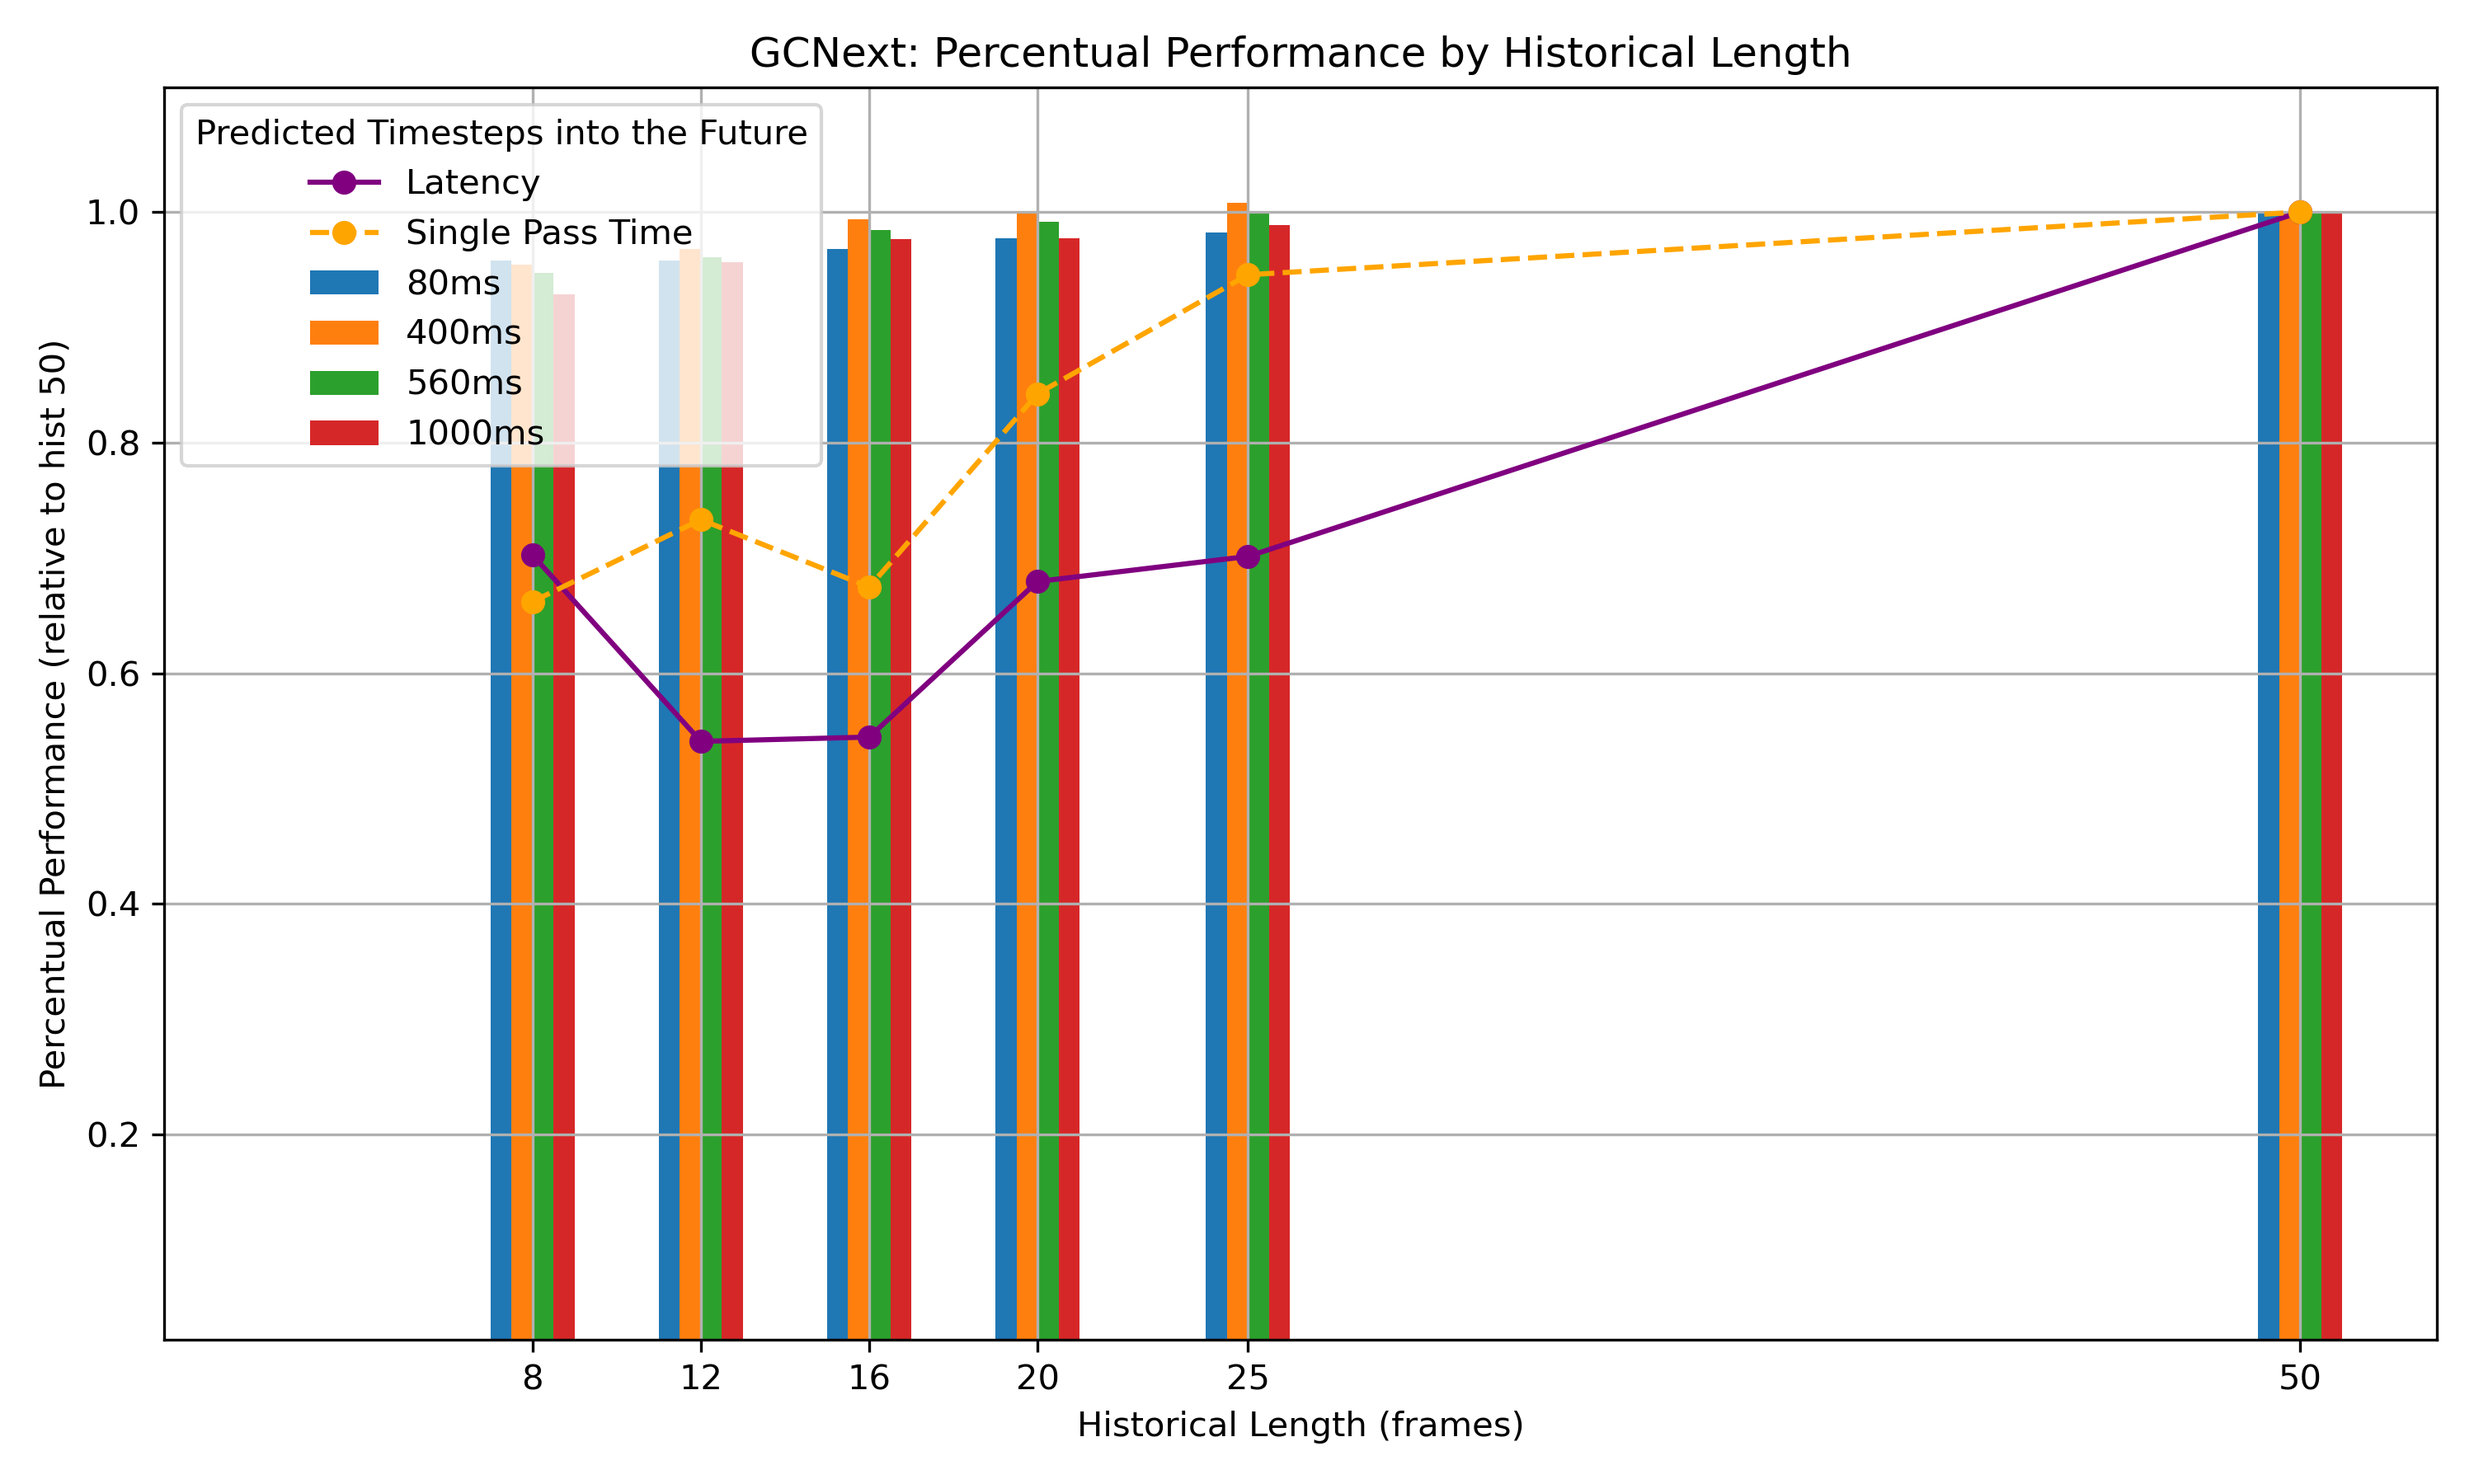
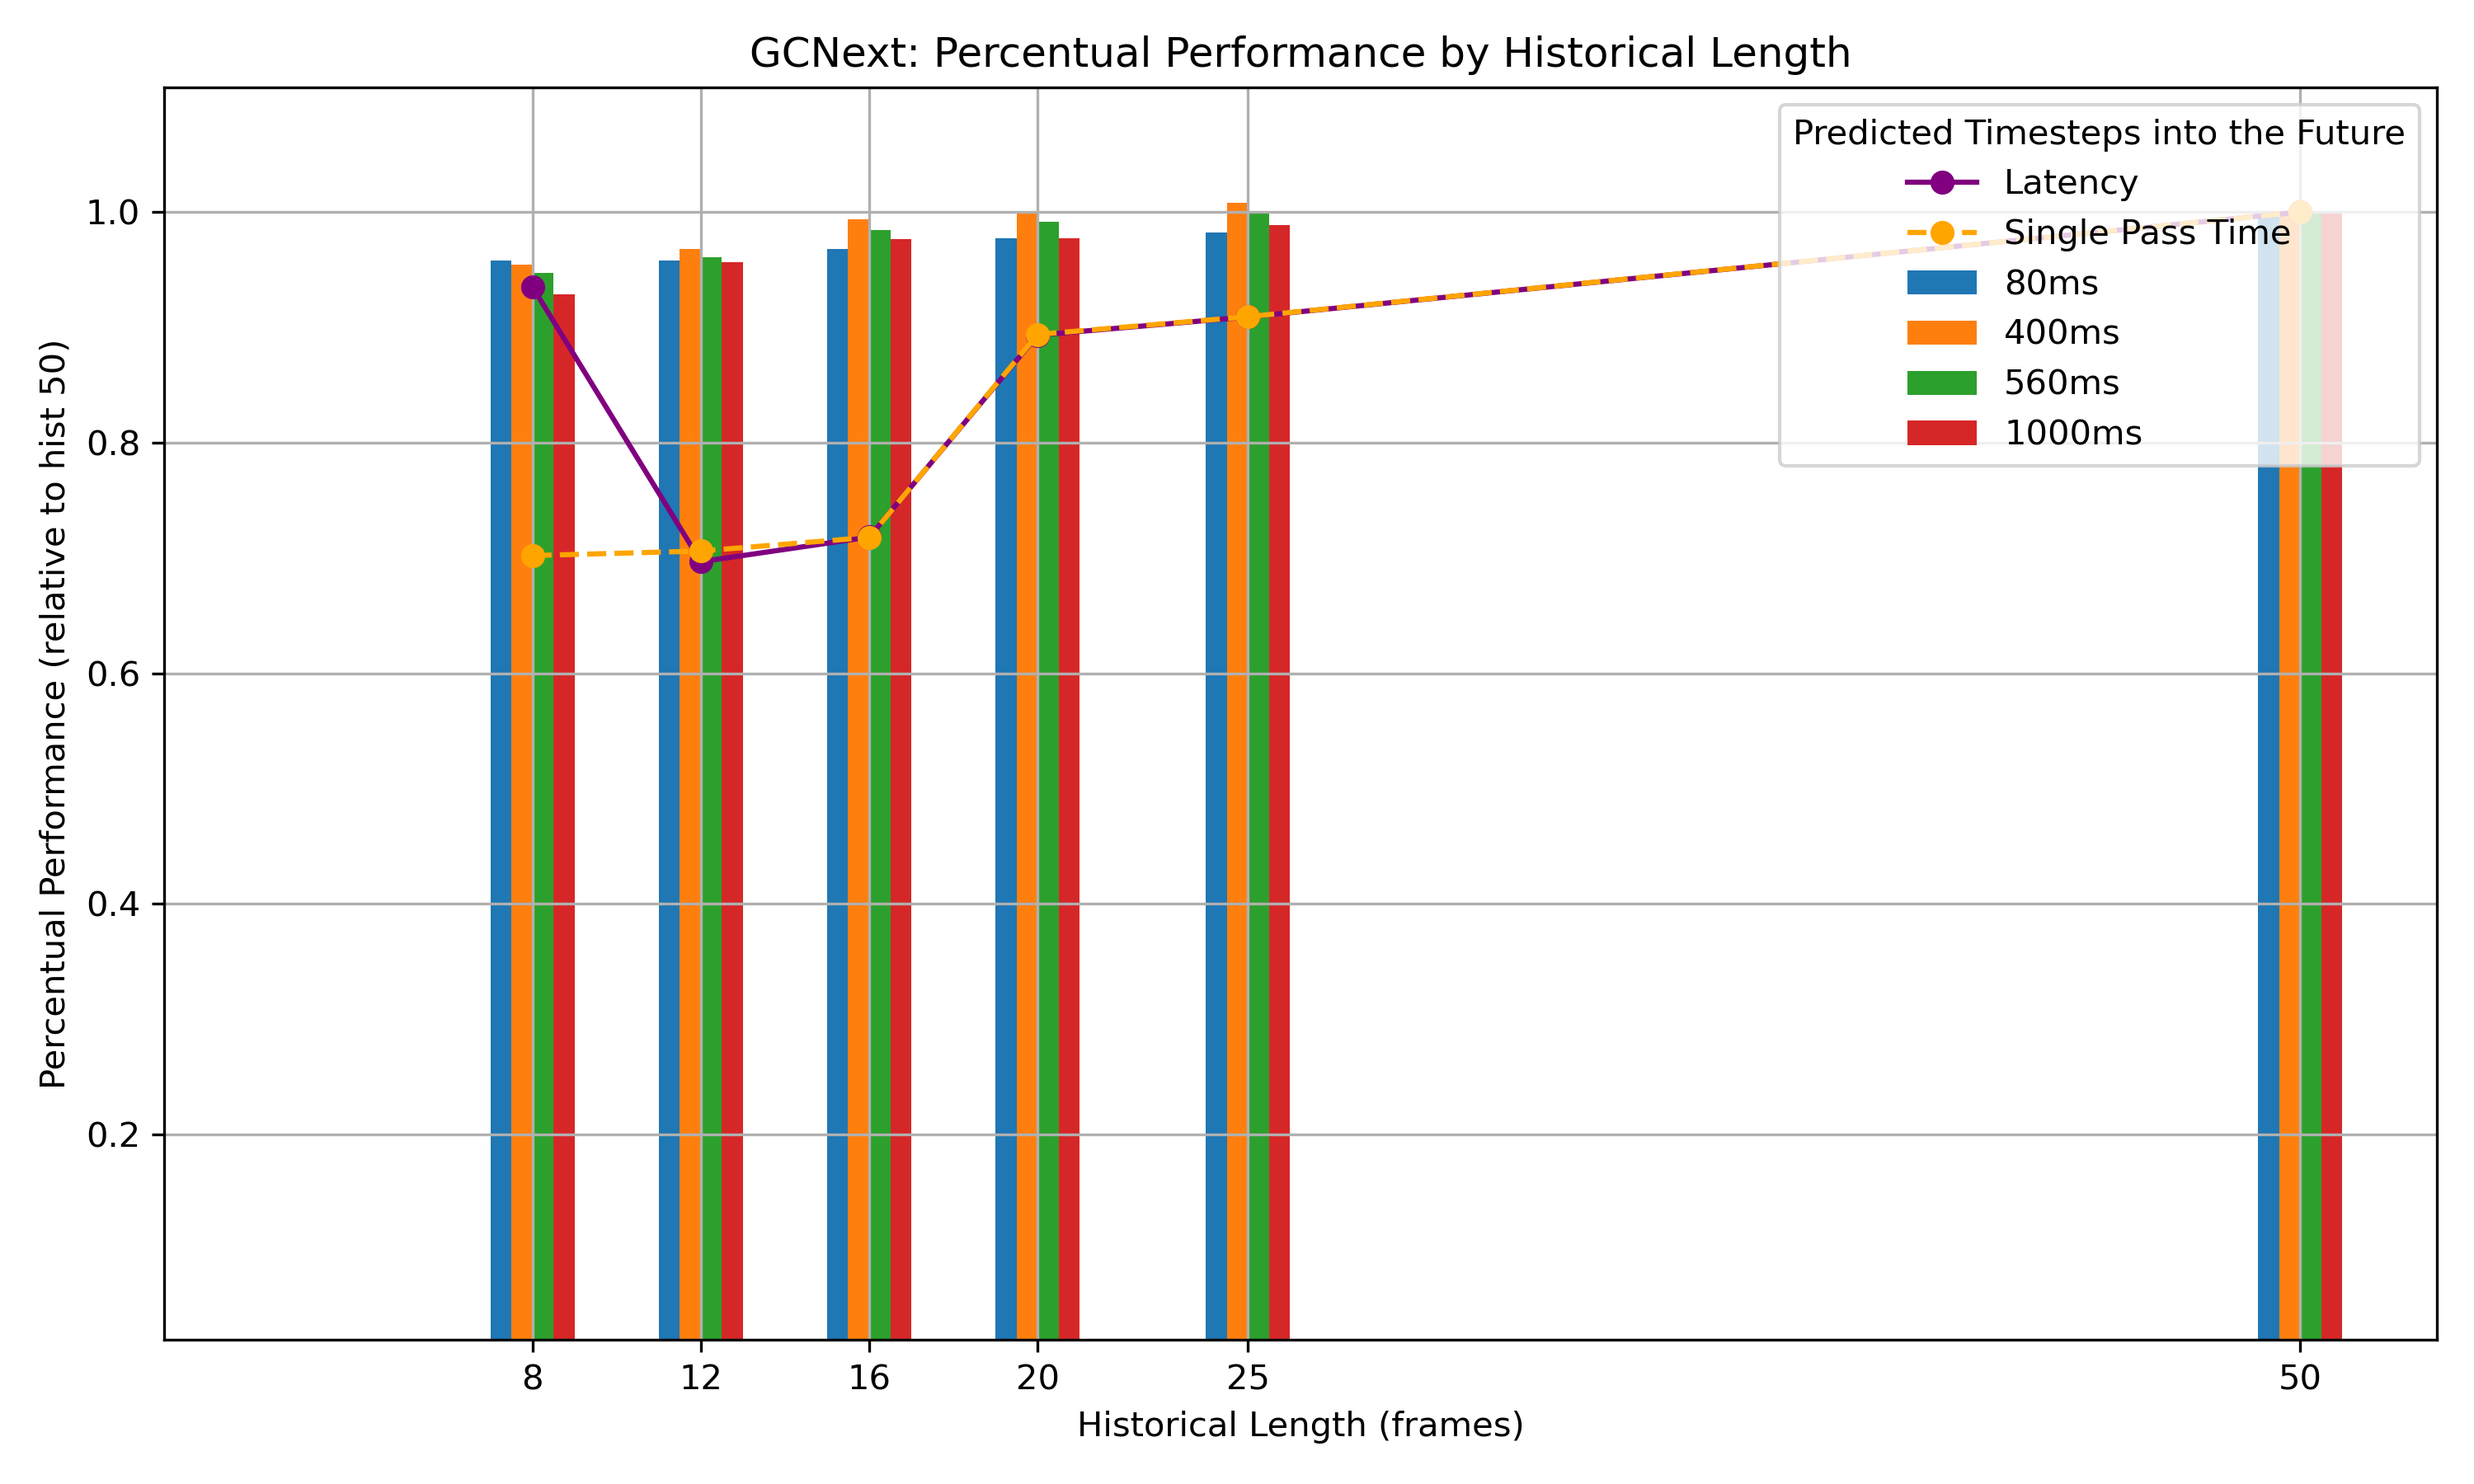
New real time performance metrics

diff --git a/exps/run/eval_different_lengths.py b/exps/run/eval_different_lengths.py
@@ -40,23 +40,6 @@ def get_physmop_metrics_at_latest_timestep(path, length):
     combined = np.mean([upper, lower], axis=0)  # shape: (length, 4)
     return combined[length-1]  # last timestep for given length
 
-physmop_hist_lengths = [8, 12, 16, 20, 25]
-physmop_files = [
-    "performance_logs/physmop_data_mpjpe_log_hist_length_8.txt",
-    "performance_logs/physmop_data_mpjpe_log_hist_length_12.txt",
-    "performance_logs/physmop_data_mpjpe_log_hist_length_16.txt",
-    "performance_logs/physmop_data_mpjpe_log_hist_length_20.txt",
-    "performance_logs/physmop_data_mpjpe_log_front_to_back.txt"
-]
-physmop_performance_data = np.array([
-    get_physmop_metrics_at_latest_timestep(f, l)
-    for f, l in zip(physmop_files, physmop_hist_lengths)
-])
-physmop_dummy_latency_data = [86.47, 87.64, 97.05, 89.11, 101.64]  # Replace with actual if available
-physmop_percentual_performance = 1/(physmop_performance_data / physmop_performance_data[-1])
-physmop_percentual_latency = np.array(physmop_dummy_latency_data) / physmop_dummy_latency_data[-1]
-print(physmop_percentual_performance)
-
 # --- GCNext Data Loading ---
 def parse_gcn_data(filename, body_part):
     action_data = {}
@@ -91,7 +74,37 @@ def get_gcn_metrics_at_latest_timestep(path, length):
     combined = np.mean([upper, lower], axis=0)
     return combined[length-1]
 
-gcn_hist_lengths = [8, 12, 16, 20, 25, 50]
+# -------------------------------------------------------------------------------------------------
+physmop_hist_lengths = [8, 12, 16, 20, 25]
+physmop_prediction_data = [5.93, 6.14, 5.97, 6.26, 6.26]
+physmop_latency_data = [86.30, 87.37, 88.75, 88.39, 92.42] 
+physmop_jitter = [11.75, 10.90, 13.46, 13.92, 11.83]
+
+
+physmop_files = [
+    "performance_logs/physmop_data_mpjpe_log_hist_length_8.txt",
+    "performance_logs/physmop_data_mpjpe_log_hist_length_12.txt",
+    "performance_logs/physmop_data_mpjpe_log_hist_length_16.txt",
+    "performance_logs/physmop_data_mpjpe_log_hist_length_20.txt",
+    "performance_logs/physmop_data_mpjpe_log_front_to_back.txt"
+]
+physmop_performance_data = np.array([
+    get_physmop_metrics_at_latest_timestep(f, l)
+    for f, l in zip(physmop_files, physmop_hist_lengths)
+])
+
+physmop_percentual_performance = 1/(physmop_performance_data / physmop_performance_data[-1])
+physmop_percentual_prediction = np.array(physmop_prediction_data) / physmop_prediction_data[-1]
+physmop_percentual_latency = np.array(physmop_latency_data) / physmop_latency_data[-1]
+
+# -------------------------------------------------------------------------------------------------
+gcn_hist_lengths =      [8,     12,     16,     20,     25,     50]
+gcn_prediction_data =   [71.15, 53.94,  54.57,  67.94,  69.12,  76.02]
+gcn_latency_data =      [71.53, 53.31,  54.94,  68.34,  69.55,  76.51]  # these are actual values
+gcn_single_pass_times = [17.79, 17.89,  18.19,  22.65,  23.04,  25.34]  # these are actual values
+gcn_jitter =            [3.32,  1.54,   1.02,   3.14,   2.73,   6.85]
+
+
 gcn_files = [
     "performance_logs/gcnext_hist_length_8.txt",
     "performance_logs/gcnext_hist_length_12.txt",
@@ -104,12 +117,12 @@ gcn_performance_data = np.array([
     get_gcn_metrics_at_latest_timestep(f, l)
     for f, l in zip(gcn_files, gcn_hist_lengths)
 ])
-gcn_single_pass_times = [17.77, 19.68, 18.11, 22.61, 25.38, 26.84]  # Example single pass times in seconds
-gcn_dummy_latency_data = [71.17, 54.80, 55.18, 68.85, 71.05, 101.31]  # Replace with actual if available
+
 gcn_percentual_performance = 1/(gcn_performance_data / gcn_performance_data[-1])
-gcn_percentual_latency = np.array(gcn_dummy_latency_data) / gcn_dummy_latency_data[-1]
+gcn_percentual_prediction = np.array(gcn_prediction_data) / gcn_prediction_data[-1]
+gcn_percentual_latency = np.array(gcn_latency_data) / gcn_latency_data[-1]
 gcn_percentual_single_pass = np.array(gcn_single_pass_times) / gcn_single_pass_times[-1]
-# print(gcn_percentual_performance)
+
 # --- Shared axis limits for line plots ---
 all_hist_lengths = sorted(set(physmop_hist_lengths + gcn_hist_lengths))
 x_min = 0
@@ -141,6 +154,7 @@ fig2, ax2 = plt.subplots(figsize=figsize)
 for i in range(4):
     ax2.bar(x_physmop + i*bar_width, physmop_percentual_performance[:, i], width=bar_width, label=f'{time_horizons[i]}')
 ax2.plot(x_physmop + 1.5*bar_width, physmop_percentual_latency, color='purple', marker='o', linestyle='-', label='Latency')
+# ax2.plot(x_physmop + 1.5*bar_width, physmop_percentual_prediction, color='pink', marker='o', linestyle='-', label='Prediction Time')
 ax2.set_xticks(x_physmop + 1.5*bar_width)
 ax2.set_xticklabels(physmop_hist_lengths)
 ax2.set_xlim(x_min, x_bar_max)
@@ -148,7 +162,7 @@ ax2.set_ylim(y_min_rel, y_max_rel)
 ax2.set_xlabel('Historical Length (frames)')
 ax2.set_ylabel('Percentual Performance (relative to hist 25)')
 ax2.set_title('PhysMoP: Percentual Performance by Historical Length')
-ax2.legend(title='Predicted Timesteps into the Future', loc='upper left')
+ax2.legend(title='Predicted Timesteps into the Future', loc='upper right')
 ax2.grid(True)
 fig2.tight_layout()
 fig2.savefig('figures/physmop_bar_performance.png', dpi=dpi)
@@ -173,6 +187,7 @@ fig4, ax4 = plt.subplots(figsize=figsize)
 for i in range(4):
     ax4.bar(x_gcn + i*bar_width, gcn_percentual_performance[:, i], width=bar_width, label=f'{time_horizons[i]}')
 ax4.plot(x_gcn + 1.5*bar_width, gcn_percentual_latency, color='purple', marker='o', linestyle='-', label='Latency')
+# ax4.plot(x_gcn + 1.5*bar_width, gcn_percentual_prediction, color='pink', marker='o', linestyle='-', label='Prediction Time')
 ax4.plot(x_gcn + 1.5*bar_width, gcn_percentual_single_pass, color='orange', marker='o', linestyle='--', label='Single Pass Time')
 ax4.set_xticks(x_gcn + 1.5*bar_width)
 ax4.set_xticklabels(gcn_hist_lengths)
@@ -181,7 +196,7 @@ ax4.set_ylim(y_min_rel, y_max_rel)
 ax4.set_xlabel('Historical Length (frames)')
 ax4.set_ylabel('Percentual Performance (relative to hist 50)')
 ax4.set_title('GCNext: Percentual Performance by Historical Length')
-ax4.legend(title='Predicted Timesteps into the Future', loc='upper left')
+ax4.legend(title='Predicted Timesteps into the Future', loc='upper right')
 ax4.grid(True)
 fig4.tight_layout()
 fig4.savefig('figures/gcnext_bar_performance.png', dpi=dpi)

diff --git a/exps/run/eval_upper_lower.py b/exps/run/eval_upper_lower.py
@@ -44,44 +44,46 @@ def parse_gcn_data(filename, body_part):
                     action_data[current_action].append([float(x) for x in arr[0].split()])
     return action_data
 
-upper_data = parse_physmop_data("physmop_data_mpjpe_log_front_to_back.txt", "upper body")
-lower_data = parse_physmop_data("physmop_data_mpjpe_log_front_to_back.txt", "lower body")
-upper_physics = parse_physmop_data("physmop_physics_mpjpe_log_front_to_back.txt", "upper body")
-lower_physics = parse_physmop_data("physmop_physics_mpjpe_log_front_to_back.txt", "lower body")
-upper_fusion = parse_physmop_data("physmop_fusion_mpjpe_log_front_to_back.txt", "upper body")
-lower_fusion = parse_physmop_data("physmop_fusion_mpjpe_log_front_to_back.txt", "lower body")
+# upper_data = parse_physmop_data("physmop_data_mpjpe_log_front_to_back.txt", "upper body")
+# lower_data = parse_physmop_data("physmop_data_mpjpe_log_front_to_back.txt", "lower body")
+# upper_physics = parse_physmop_data("physmop_physics_mpjpe_log_front_to_back.txt", "upper body")
+# lower_physics = parse_physmop_data("physmop_physics_mpjpe_log_front_to_back.txt", "lower body")
+# upper_fusion = parse_physmop_data("physmop_fusion_mpjpe_log_front_to_back.txt", "upper body")
+# lower_fusion = parse_physmop_data("physmop_fusion_mpjpe_log_front_to_back.txt", "lower body")
 
-upper_gcn = parse_gcn_data("mpjpe_log.txt", "upper body")
-lower_gcn = parse_gcn_data("mpjpe_log.txt", "lower body")
+upper_gcn = parse_gcn_data("gcnext_hist_length_16_pred_length_13.txt", "upper body")
+lower_gcn = parse_gcn_data("gcnext_hist_length_16_pred_length_13.txt", "lower body")
 
 # Aggregate by group
 def group_average(actions, action_data):
     group = []
     for act in actions:
         if act in action_data:
-            group.append(np.array(action_data[act][:50]))  # shape: (50, 4)
+            group.append(np.array(action_data[act][:16]))  # shape: (50, 4)
     if group:
         return np.mean(np.stack(group), axis=0)  # shape: (50, 4)
     else:
         return None
 
 
-upper_data = upper_data[:, [0, 1, 4, 7]]
-lower_data = lower_data[:, [0, 1, 4, 7]]
-upper_physics = upper_physics[:, [0, 1, 4, 7]]
-lower_physics = lower_physics[:, [0, 1, 4, 7]]
-upper_fusion = upper_fusion[:, [0, 1, 4, 7]]
-lower_fusion = lower_fusion[:, [0, 1, 4, 7]]
+# upper_data = upper_data[:, [0, 1, 4, 7]]
+# lower_data = lower_data[:, [0, 1, 4, 7]]
+# upper_physics = upper_physics[:, [0, 1, 4, 7]]
+# lower_physics = lower_physics[:, [0, 1, 4, 7]]
+# upper_fusion = upper_fusion[:, [0, 1, 4, 7]]
+# lower_fusion = lower_fusion[:, [0, 1, 4, 7]]
 
 upper_gcn = group_average(actions, upper_gcn)
 lower_gcn = group_average(actions, lower_gcn)
+
+gcn = np.concatenate([upper_gcn, lower_gcn], axis=1)  # shape: (50, 8)
 
 # Compute relative MPJPE (percentage of first observation)
 def relative_mpjpe(avg):
     return 100 * avg / avg[0]  # shape: (50, 4)
 
-upper_rel = relative_mpjpe(upper_data)
-lower_rel = relative_mpjpe(lower_data)
+# upper_rel = relative_mpjpe(upper_data)
+# lower_rel = relative_mpjpe(lower_data)
 
 colors = plt.get_cmap('tab10').colors  # 4 distinct colors
 
